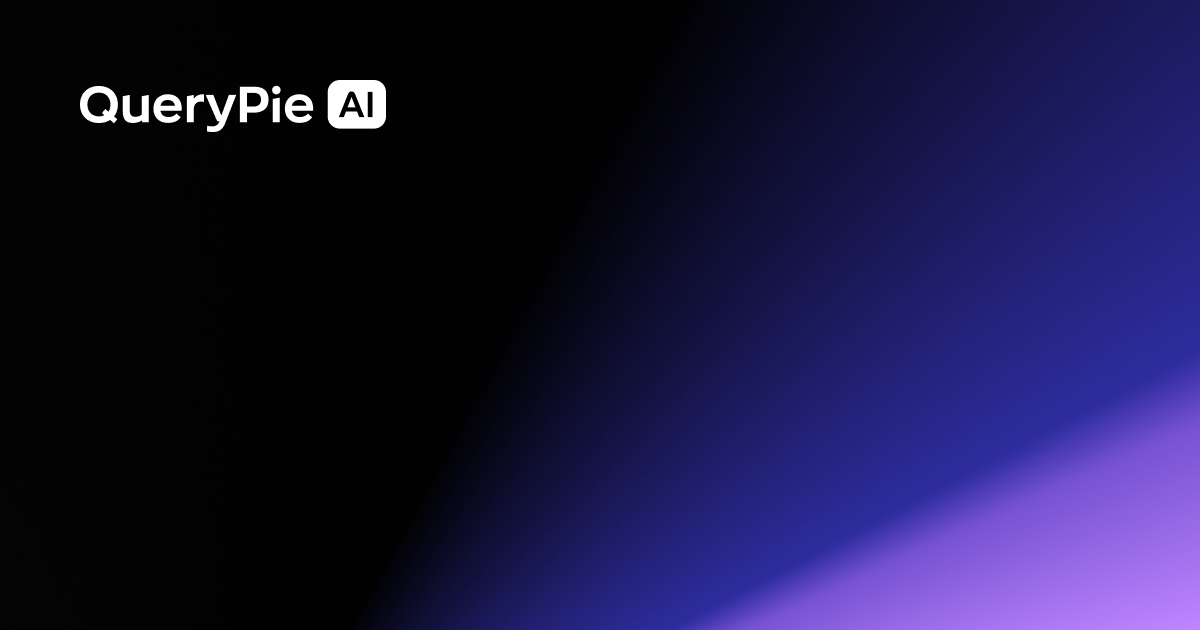
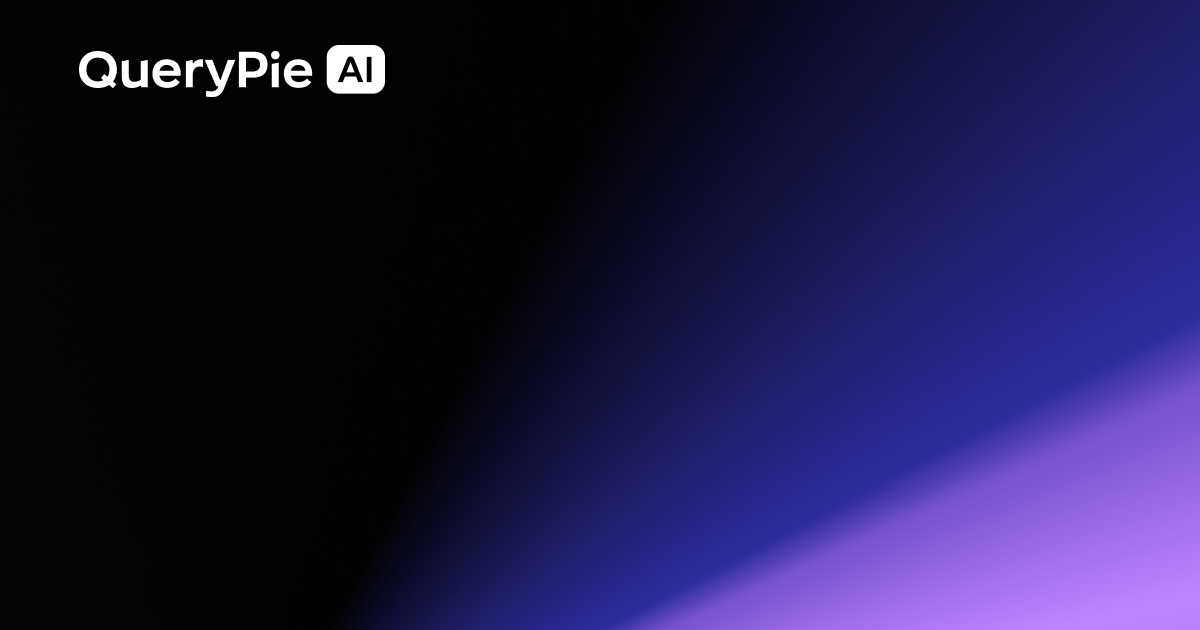
fix(og): OG 이미지 description 영역 레이아웃 개선 (#569)
## Description
- Description 영역의 최대 줄 수를 3줄에서 4줄로 확대합니다.
  - `WebkitLineClamp: 3` → `4`, `maxHeight: 192` 추가
- 제목 영역을 고정 높이(`height: 240`)로 변경하여 description 시작 위치를 고정합니다.
- 텍스트 영역 패딩을 조정합니다.
  - Top: 150px → 110px (텍스트 위치 상향)
  - Left/Right: 80px → 72px (배경 로고와 좌측 정렬)
  - Bottom: 60px → 65px
- `textOverflow: 'ellipsis'`를 추가하여 텍스트 초과 시 `...` ellipsis가 표시되도록 합니다.
  - `as React.CSSProperties` 타입 단언으로 satori 전용 속성 전달
- OG 배경 이미지를 1200×630 크기로 교체합니다.

### Background
제목이 3줄이고 description이 4줄인 경우, description의 4번째 줄 글자가 중간에 잘리는 문제가 있었습니다.
또한 제목이 2줄일 때 description이 위로 올라가서 시작 위치가 일정하지 않았습니다.
텍스트가 영역을 초과할 때 ellipsis(`...`)가 표시되지 않는 문제도 함께 해결합니다.

## Related tickets & links
- #541

## Test plan
- [x] Description 4줄 초과 시 `...` ellipsis 표시 확인
- [ ] Preview Deployment에서 description이 4줄인 페이지 확인
- [ ] 제목이 1줄/2줄/3줄인 페이지에서 description 시작 위치가 동일한지 확인
- [ ] 배경 이미지 로고와 텍스트 좌측 정렬 확인

## Added/updated tests?
- [x] No, and this is why: OG 이미지 렌더링은 시각적 검증이 필요하며, Preview
Deployment에서 확인합니다.

🤖 Generated with [Claude Code](https://claude.com/claude-code)

---------

Changed region(s): [[0.4933, 0.5429, 1.0, 1.0], [0.0617, 0.0603, 0.3392, 0.2111]]

diff --git a/src/lib/og-image.tsx b/src/lib/og-image.tsx
@@ -78,7 +78,7 @@ export async function generateOgImage(
           display: 'flex',
           flexDirection: 'column',
           justifyContent: 'flex-start',
-          padding: '150px 80px 60px 80px',
+          padding: '110px 72px 65px 72px',
           fontFamily,
           ...backgroundStyle,
         }}
@@ -88,41 +88,48 @@ export async function generateOgImage(
           style={{
             display: 'flex',
             alignItems: 'center',
-            maxHeight: 240,
+            height: 240,
             marginBottom: 21,
           }}
         >
           <div
-            style={{
-              fontSize: 64,
-              fontWeight: 700,
-              color: '#ffffff',
-              lineHeight: 1.2,
-              display: '-webkit-box',
-              WebkitLineClamp: 3,
-              WebkitBoxOrient: 'vertical',
-              overflow: 'hidden',
-              maxWidth: '100%',
-            }}
+            style={
+              {
+                fontSize: 64,
+                fontWeight: 700,
+                color: '#ffffff',
+                lineHeight: 1.2,
+                display: '-webkit-box',
+                WebkitLineClamp: 3,
+                WebkitBoxOrient: 'vertical',
+                overflow: 'hidden',
+                textOverflow: 'ellipsis',
+                maxWidth: '100%',
+              } as React.CSSProperties
+            }
           >
             {title}
           </div>
         </div>
 
-        {/* 설명 영역 - 최대 3줄 */}
+        {/* 설명 영역 - 최대 4줄 */}
         {description && (
           <div
-            style={{
-              fontSize: 32,
-              fontWeight: 400,
-              color: 'rgba(255,255,255,0.85)',
-              lineHeight: 1.5,
-              display: '-webkit-box',
-              WebkitLineClamp: 3,
-              WebkitBoxOrient: 'vertical',
-              overflow: 'hidden',
-              maxWidth: '100%',
-            }}
+            style={
+              {
+                fontSize: 32,
+                fontWeight: 400,
+                color: 'rgba(255,255,255,0.85)',
+                lineHeight: 1.5,
+                display: '-webkit-box',
+                WebkitLineClamp: 4,
+                WebkitBoxOrient: 'vertical',
+                overflow: 'hidden',
+                textOverflow: 'ellipsis',
+                maxWidth: '100%',
+                maxHeight: 192,
+              } as React.CSSProperties
+            }
           >
             {description}
           </div>
